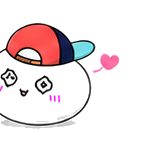
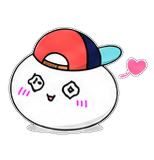
Re-extract heart sprites from spritesheets with complete outlines
The previous heart cuts were framed so the body crossed the canvas
edge; the white-fill repair then showed as white rectangles on phones.
Re-cut both heart cells from the original spritesheets with frames that
contain the whole body, removing only the checkered background via
flood fill so the white face stays opaque. Hearts clipped by the frame
edge are dropped entirely instead of being cut mid-shape. Bump the
sprite cache version so phones pick up the new images.

Changed region(s): [[0.0, 0.125, 0.961, 0.8438], [0.3896, 0.5, 0.5195, 0.625]]

diff --git a/game.js b/game.js
@@ -67,7 +67,7 @@ const CHARACTERS = {
 };
 
 // 表情PNG差し替え時に古いキャッシュが使われないようにする
-const SPRITE_VERSION = "20260610-heartfix";
+const SPRITE_VERSION = "20260610-heartfix2";
 for (const expressions of [CHARACTERS.kon.expressions, CHARACTERS.lee.expressions]) {
   for (const key of Object.keys(expressions)) {
     expressions[key] = `${expressions[key]}?v=${SPRITE_VERSION}`;
